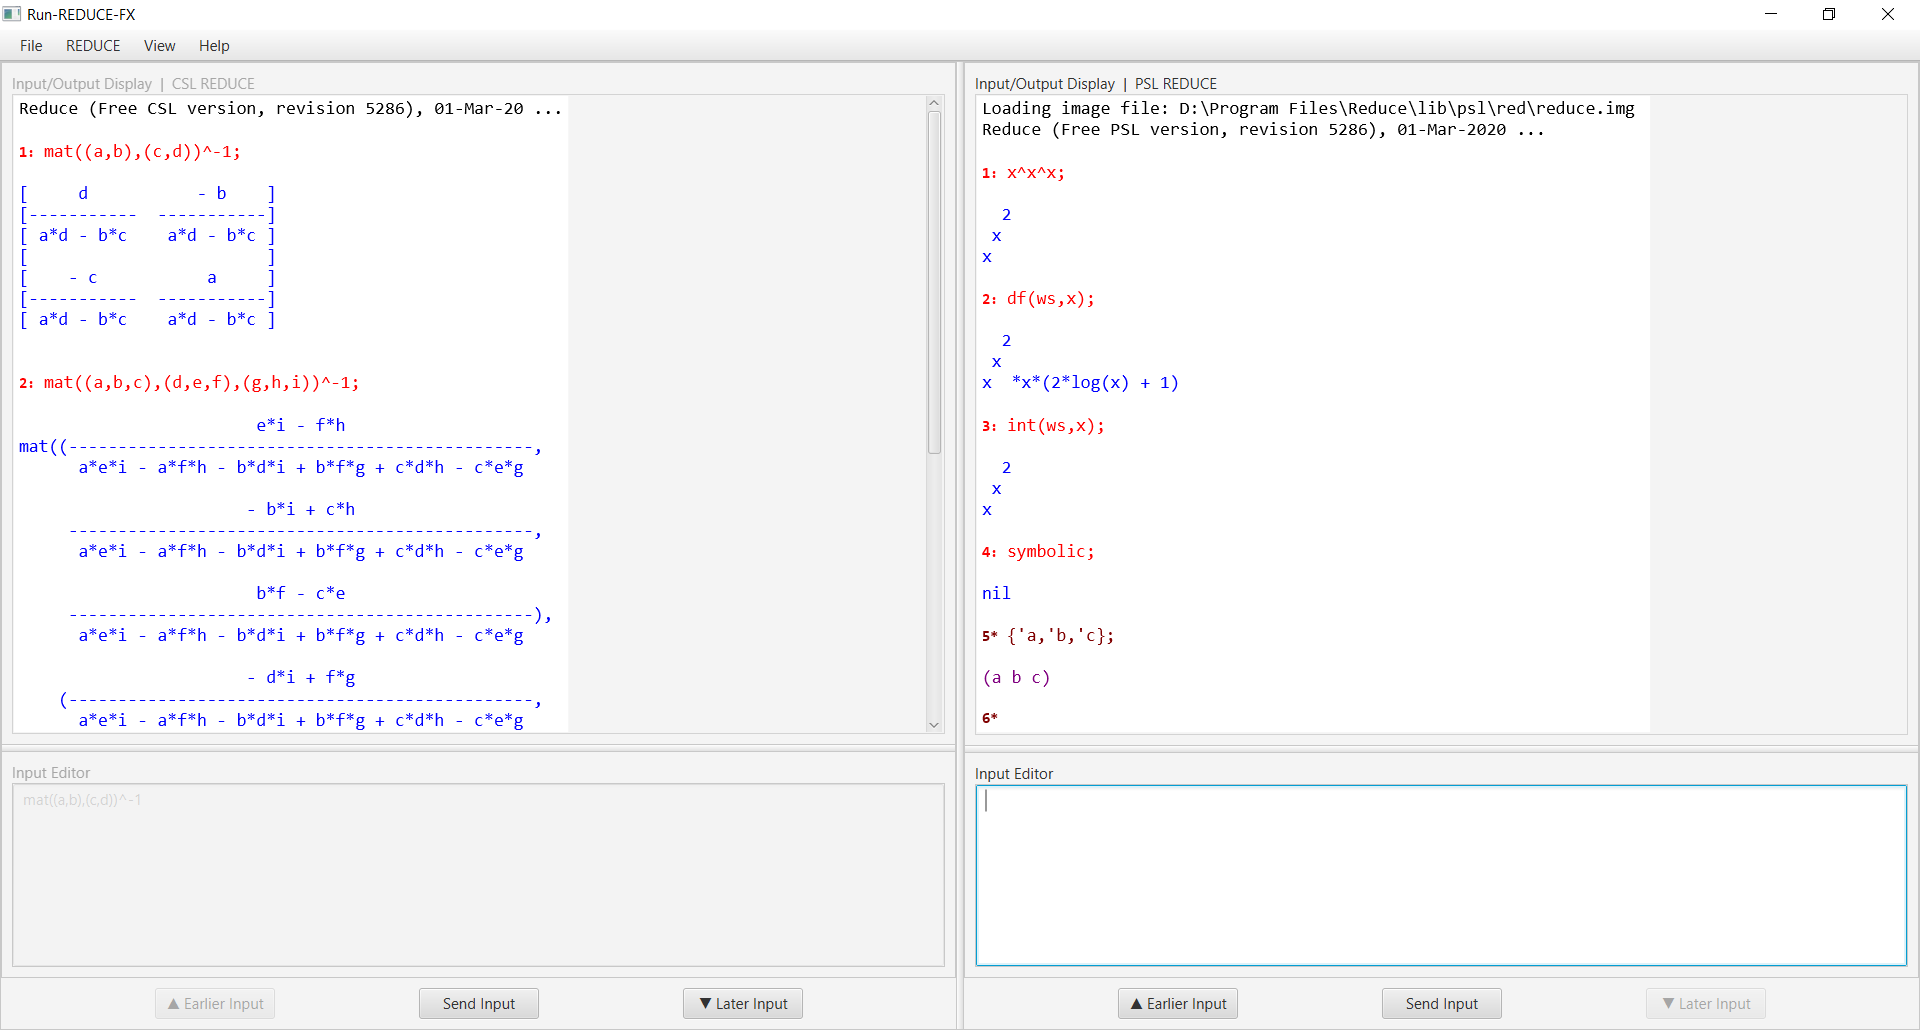
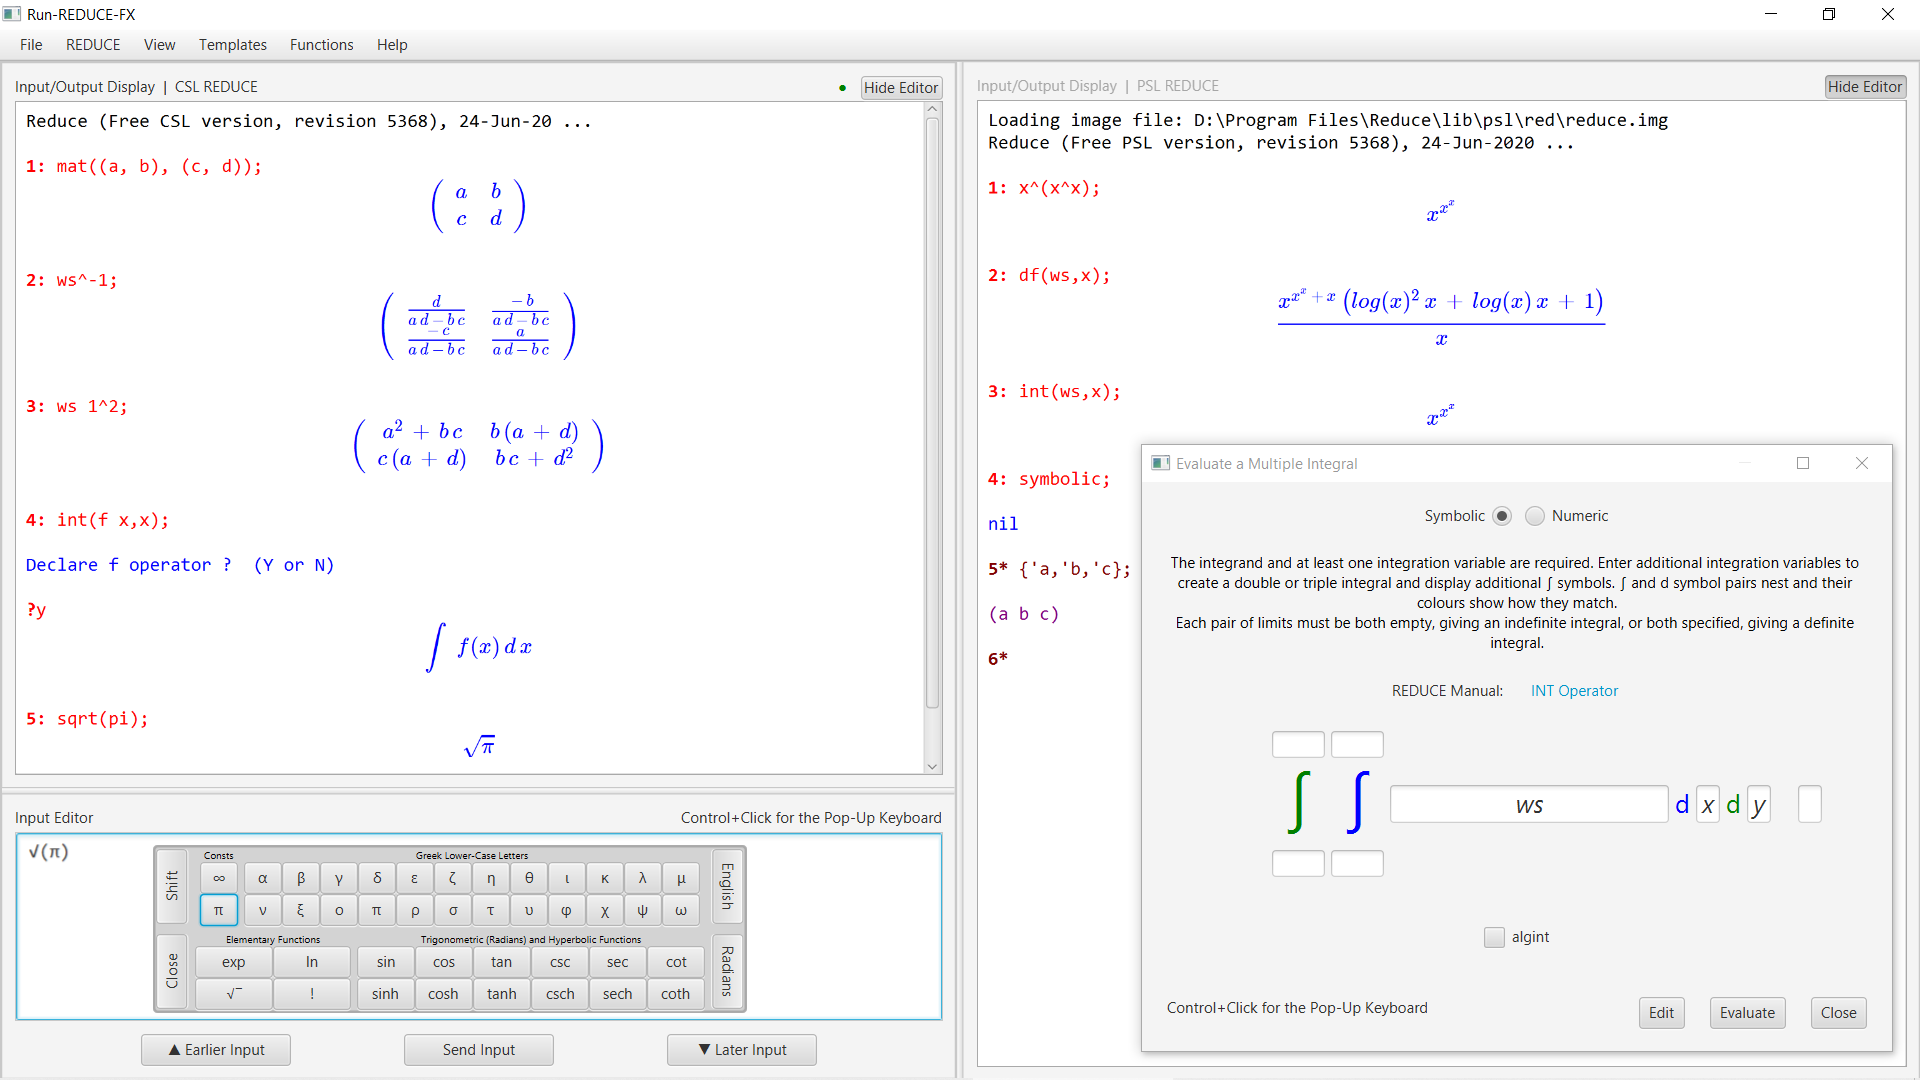
Update documentation for v2.0 release, including a new screen shot.

diff --git a/docs/UserGuide.html b/docs/UserGuide.html
@@ -197,11 +197,11 @@
     function button on the bottom half of the pop-up keyboard causes
     that function to be applied to the selected text if there is any
     (i.e. wrapped around it using parentheses) or otherwise to be
-    inserted (without parentheses) at the text cursor.  The pop-up
-    then closes.  The pop-up also closes if you click anywhere outside
-    it, or you can close it by clicking on the <em>Close</em> button
-    in the bottom left corner or by pressing the <em>Escape</em> key
-    on your main keyboard.
+    inserted followed by parentheses at the text cursor, which is left
+    within the parentheses.  The pop-up then closes.  The pop-up also
+    closes if you click anywhere outside it, or you can close it by
+    clicking on the <em>Close</em> button in the bottom left corner or
+    by pressing the <em>Escape</em> key on your main keyboard.
     </p>
     <p>If you don't have a middle mouse-button but you have a wheel
     mouse then pressing on the wheel may generate a middle
@@ -616,11 +616,11 @@
       typeset and centred horizontally.  <strong>WARNINGS:</strong>
       Typeset Maths is currently experimental.  It interacts badly
       with redfront I/O colouring, so don't try to use the two
-      together: one will effectively cancel the other.  Big delimiters
-      are not handled correctly: they or their components are too
-      small.  If any TeX markup appears (coloured red) in the output
-      then please let me know!  <em>Save Session Log...</em> outputs
-      typeset maths using TeX markup.
+      together: one will effectively cancel the other.  The display
+      may be incorrect in some cases, such as with the switch
+      setting <em>on list</em>.  If any TeX markup appears (coloured
+      red) in the output then please let me know!  <em>Save Session
+      Log...</em> outputs typeset maths using TeX markup.
     </p>
     <h3>Single Pane Display</h3>
     <p>Selecting this causes Run-REDUCE-FX to display the selected

diff --git a/src/fjwright/runreduce/UserGuide.html b/src/fjwright/runreduce/UserGuide.html
@@ -197,11 +197,11 @@
     function button on the bottom half of the pop-up keyboard causes
     that function to be applied to the selected text if there is any
     (i.e. wrapped around it using parentheses) or otherwise to be
-    inserted (without parentheses) at the text cursor.  The pop-up
-    then closes.  The pop-up also closes if you click anywhere outside
-    it, or you can close it by clicking on the <em>Close</em> button
-    in the bottom left corner or by pressing the <em>Escape</em> key
-    on your main keyboard.
+    inserted followed by parentheses at the text cursor, which is left
+    within the parentheses.  The pop-up then closes.  The pop-up also
+    closes if you click anywhere outside it, or you can close it by
+    clicking on the <em>Close</em> button in the bottom left corner or
+    by pressing the <em>Escape</em> key on your main keyboard.
     </p>
     <p>If you don't have a middle mouse-button but you have a wheel
     mouse then pressing on the wheel may generate a middle
@@ -616,11 +616,11 @@
       typeset and centred horizontally.  <strong>WARNINGS:</strong>
       Typeset Maths is currently experimental.  It interacts badly
       with redfront I/O colouring, so don't try to use the two
-      together: one will effectively cancel the other.  Big delimiters
-      are not handled correctly: they or their components are too
-      small.  If any TeX markup appears (coloured red) in the output
-      then please let me know!  <em>Save Session Log...</em> outputs
-      typeset maths using TeX markup.
+      together: one will effectively cancel the other.  The display
+      may be incorrect in some cases, such as with the switch
+      setting <em>on list</em>.  If any TeX markup appears (coloured
+      red) in the output then please let me know!  <em>Save Session
+      Log...</em> outputs typeset maths using TeX markup.
     </p>
     <h3>Single Pane Display</h3>
     <p>Selecting this causes Run-REDUCE-FX to display the selected

diff --git a/src/fjwright/runreduce/RunREDUCEFrame.java b/src/fjwright/runreduce/RunREDUCEFrame.java
@@ -644,7 +644,7 @@ public class RunREDUCEFrame {
     @FXML
     private void aboutMenuItemAction() {
         Alert alert = new Alert(Alert.AlertType.INFORMATION,
-                "Version 1.91, September 2020\n" +
+                "Version 2.0, September 2020\n" +
                         "\u00A9 2020 Francis Wright");
         alert.getDialogPane().setMinHeight(Region.USE_PREF_SIZE);
         alert.initOwner(RunREDUCE.primaryStage);

diff --git a/docs/index.md b/docs/index.md
@@ -1,13 +1,12 @@
 ### Key links: [Run-REDUCE-FX.jar](https://github.com/fjwright/Run-REDUCE-FX/releases/latest/download/Run-REDUCE-FX.jar) | [Install and Run](InstallAndRun.md) | [User Guide](UserGuide.html)
 
-Note that Run-REDUCE-FX now requires the javafx.web module &ndash; see the [Install and Run Guide](InstallAndRun.md).
-
 Run-REDUCE-FX is a Graphical User Interface for running the
 [REDUCE](https://reduce-algebra.sourceforge.io/) Computer Algebra
-System that should provide a fairly consistent user experience across
-all platforms.  It is implemented in JavaFX and the executable
-application takes the form of the JAR file *Run-REDUCE-FX.jar*.  Click
-on the link above to download the latest release.
+System that should provide a consistent user experience across all
+implementations of REDUCE and all platforms.  It is implemented in
+JavaFX and the executable application takes the form of the JAR file
+[Run-REDUCE-FX.jar](https://github.com/fjwright/Run-REDUCE-FX/releases/latest/download/Run-REDUCE-FX.jar).
+Click on the link here or above to download the latest release.
 
 ![Run-REDUCE-FX screen shot](Run-REDUCE-FX.png "Run-REDUCE-FX screen shot")
 
@@ -31,23 +30,24 @@ that it currently provides:
   distributions.
 * A REDUCE input/output display pane that scrolls in both directions
   as necessary.  Its contents can be saved to a file and/or erased.
+* Optional typeset-style display of mathematical output.
 * A multi-line input editing pane that also scrolls in both directions
   as necessary.  Previous input is remembered and can be scrolled
-  through, edited and re-input.  A final terminator can be added
+  through, edited and re-input.  A final terminator is normally added
   automatically if appropriate when input is sent to REDUCE.
-* Split or tabbed panes running independent REDUCE processes.
+* Optional split or tabbed panes running independent REDUCE processes.
 * Menu items to handle REDUCE file input/output and load standard
   REDUCE packages, similar to the facilities provided by the CSL
   REDUCE GUI.
-* Menu options to make the REDUCE input prompt bold and to colour the
-  input/output display based on the input mode or redfront.
+* Optional bold prompts and coloured input/output text based on the
+  input mode (algebraic or symbolic) or using redfront.
 * Templates to construct structured expressions and statements.
 * A popup keyboard to access symbolic constants, Greek letters and
   elementary functions.
-* Dialogues to access functions using conventional notation.
+* Dialogues to access standard mathematical functions using
+  conventional notation.
 * Easy access to the Run-REDUCE-FX User Guide, the standard
   documentation distributed with REDUCE as HTML or PDF files, the
   REDUCE Web Site and the SourceForge Project Site.
-* Experimental typeset-style display of mathematics.
 
 Francis Wright, September 2020

diff --git a/README.md b/README.md
@@ -150,14 +150,10 @@ Run-REDUCE-FX currently uses a bundled copy of
   the input editor and the bottom of each template dialogue.
 * Handle more of the non-standard TeX markup generated by fmprint.
 
-### Updates since last release
+### Version 2.0
 
-* v1.91 Replace all KaTeX woff2 fonts with woff versions.
-  This fixes the big delimiters problem. I hope that WebView in a later
-  version of JavaFX will accept woff2 fonts and I can switch back.
-* Add WebEngine debugging code from debugWebEngine branch.
-* Add div margin styles to improve vertical spacing of typeset maths.
-* Remove \> controls (tabs) from fmprint output, which don't seem to serve any
-  useful purpose, using katexMacros.
-* Always insert parentheses when calling a function using the pop-up keyboard,
-  and rewrite ln to log.
+* Fix the display of big delimiters in typeset maths.
+* Always insert parentheses when calling a function using the pop-up
+  keyboard, rewrite ln to log and remove the space after sqrt.
+
+### Updates since last release
